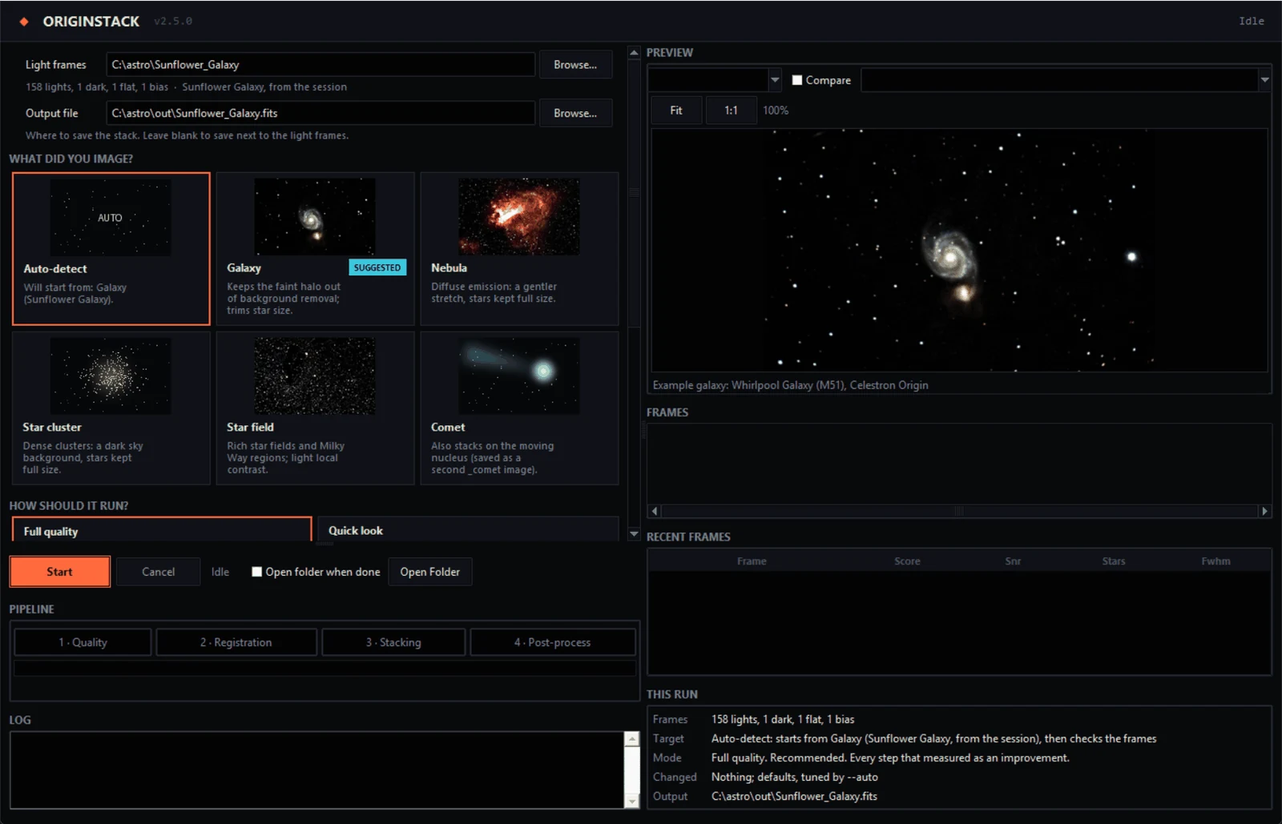
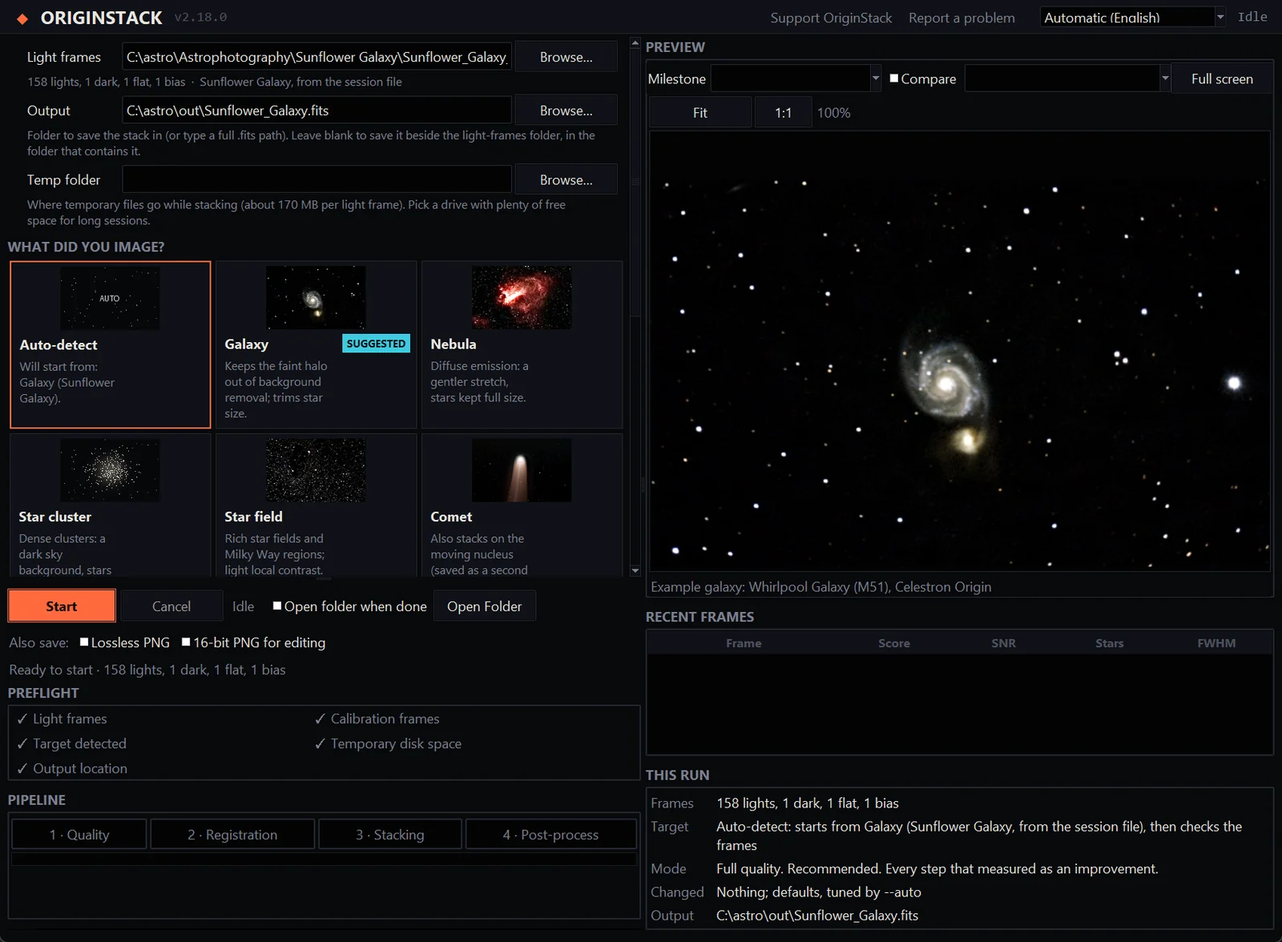
Website: retake the app screenshots without the frame strip
The setup, running and done screenshots (and the v2.11 setup shot on the
desktop-app page) still showed the removed FRAMES thumbnail strip. Retaken
from a real 158-light Sunflower run of the current app (2m 25s): the
recent-frames table now stands alone, and the finished run shows the
stretch and post-processing step controls. Alt texts, captions, image
sizes and the translated alt texts updated to match; the old "screenshot
from version 2.5" captions are gone.

diff --git a/docs/ja/index.html b/docs/ja/index.html
@@ -210,15 +210,15 @@
 
     <div class="shots">
       <figure class="shot big">
-        <picture><source type="image/webp" srcset="../img/app-running-800.webp 800w, ../img/app-running-1200.webp 1200w, ../img/app-running-1600.webp 1600w" sizes="(min-width: 1424px) 1176px, calc(100vw - 2 * clamp(20px, 5vw, 72px))"><img src="../img/app-running.png" width="1600" height="1029" loading="lazy" alt="実行中の OriginStack のウィンドウ：左側にフォルダと出力、対象の種類と実行モードの画像カード、4つのパイプラインフェーズのうち3つが完了済みの表示、その下にログ。右側には後処理途中のひまわり銀河のプレビュー、フレームのサムネイル列、フレームごとのスコアの表。"></picture>
+        <picture><source type="image/webp" srcset="../img/app-running-800.webp 800w, ../img/app-running-1200.webp 1200w, ../img/app-running-1600.webp 1600w" sizes="(min-width: 1424px) 1176px, calc(100vw - 2 * clamp(20px, 5vw, 72px))"><img src="../img/app-running.png" width="1600" height="1176" loading="lazy" alt="実行中の OriginStack ウィンドウ。左側にフォルダーと出力、対象の種類と実行モードを選ぶ画像カード、完了としてマークされた 4 つ中 3 つのパイプライン段階、その下にログ。右側には後処理の途中にあるヒマワリ銀河のプレビューと、フレームごとのスコアの表。"></picture>
         <figcaption>ひまわり銀河の処理途中。フェーズ 1〜3 が完了し、プレビューは仕上げの各ステップの進行に合わせて更新されます。</figcaption>
       </figure>
       <figure class="shot s7">
-        <picture><source type="image/webp" srcset="../img/app-setup-800.webp 800w, ../img/app-setup-1200.webp 1200w, ../img/app-setup-1600.webp 1600w" sizes="(max-width: 800px) calc(100vw - 40px), 57vw"><img src="../img/app-setup.png" width="1600" height="1029" loading="lazy" alt="実行前の OriginStack のウィンドウ：選択したフォルダとそのフレーム数、その下にセッションファイルから読み取った対象名。自動検出、銀河（おすすめ表示付き）、星雲、星団、星野、彗星の画像カード、最高品質とクイックルックの選択、プレビューに表示された銀河の作例、そしてフレーム、対象、モード、変更した設定、出力ファイルをまとめた「今回の実行」の概要。"></picture>
+        <picture><source type="image/webp" srcset="../img/app-setup-800.webp 800w, ../img/app-setup-1200.webp 1200w, ../img/app-setup-1600.webp 1600w" sizes="(max-width: 800px) calc(100vw - 40px), 57vw"><img src="../img/app-setup.png" width="1600" height="1176" loading="lazy" alt="実行前の OriginStack のウィンドウ：選択したフォルダとそのフレーム数、その下にセッションファイルから読み取った対象名。自動検出、銀河（おすすめ表示付き）、星雲、星団、星野、彗星の画像カード、最高品質とクイックルックの選択、プレビューに表示された銀河の作例、そしてフレーム、対象、モード、変更した設定、出力ファイルをまとめた「今回の実行」の概要。"></picture>
         <figcaption>実行前。フォルダを選ぶと、アプリがフレーム数を数え、セッションから対象を読み取ってカードを提案します。プレビューには作例が表示され、「今回の実行」に「開始」で何が行われるかが正確に示されます。</figcaption>
       </figure>
       <figure class="shot s5">
-        <picture><source type="image/webp" srcset="../img/app-done-800.webp 800w" sizes="(max-width: 800px) calc(100vw - 40px), 40vw"><img src="../img/app-done.png" width="800" height="983" loading="lazy" alt="実行完了後のプレビューとフレームのパネル。ひまわり銀河の最終画像と、158 フレーム中 158 フレームを 3 分 35 秒でスタックしたという概要が表示されています。"></picture>
+        <picture><source type="image/webp" srcset="../img/app-done-800.webp 800w" sizes="(max-width: 800px) calc(100vw - 40px), 40vw"><img src="../img/app-done.png" width="800" height="1374" loading="lazy" alt="実行完了後のプレビューとフレームのパネル。ヒマワリ銀河の最終画像と、158 フレーム中 158 フレームを 2 分 25 秒でスタックしたという要約が表示されています。"></picture>
         <figcaption>完了したら、結果を拡大・移動したり、リニアスタックと完成画像を切り替えて比較したりできます。</figcaption>
       </figure>
       <figure class="shot s7">

diff --git a/docs/fr/index.html b/docs/fr/index.html
@@ -212,15 +212,15 @@
 
     <div class="shots">
       <figure class="shot big">
-        <picture><source type="image/webp" srcset="../img/app-running-800.webp 800w, ../img/app-running-1200.webp 1200w, ../img/app-running-1600.webp 1600w" sizes="(min-width: 1424px) 1176px, calc(100vw - 2 * clamp(20px, 5vw, 72px))"><img src="../img/app-running.png" width="1600" height="1029" loading="lazy" alt="La fenêtre d&#x27;OriginStack pendant un traitement : le dossier et la sortie à gauche avec des cartes illustrées pour le type de cible et le mode d&#x27;exécution, trois des quatre phases de la chaîne marquées comme terminées et le journal en dessous ; à droite, un aperçu de la galaxie du Tournesol en cours de post-traitement, une bande de vignettes des images et un tableau des scores par image."></picture>
+        <picture><source type="image/webp" srcset="../img/app-running-800.webp 800w, ../img/app-running-1200.webp 1200w, ../img/app-running-1600.webp 1600w" sizes="(min-width: 1424px) 1176px, calc(100vw - 2 * clamp(20px, 5vw, 72px))"><img src="../img/app-running.png" width="1600" height="1176" loading="lazy" alt="La fenêtre d&#x27;OriginStack pendant un traitement : à gauche le dossier et la sortie avec les cartes d&#x27;image pour le type de cible et le mode d&#x27;exécution, trois des quatre phases du pipeline marquées comme terminées et le journal en dessous ; à droite un aperçu de la galaxie du Tournesol en cours de post-traitement et un tableau des scores par image."></picture>
         <figcaption>En plein traitement des images du Tournesol. Les phases 1 à 3 sont terminées, et l'aperçu suit chaque étape de finition au fur et à mesure.</figcaption>
       </figure>
       <figure class="shot s7">
-        <picture><source type="image/webp" srcset="../img/app-setup-800.webp 800w, ../img/app-setup-1200.webp 1200w, ../img/app-setup-1600.webp 1600w" sizes="(max-width: 800px) calc(100vw - 40px), 57vw"><img src="../img/app-setup.png" width="1600" height="1029" loading="lazy" alt="La fenêtre d&#x27;OriginStack avant un traitement : un dossier choisi avec ses nombres d&#x27;images et le nom de la cible tiré du fichier de session en dessous, des cartes illustrées pour Détection auto, Galaxie (marquée Suggéré), Nébuleuse, Amas d&#x27;étoiles, Champ stellaire et Comète, un choix entre Qualité maximale et Aperçu rapide, un exemple d&#x27;image de galaxie dans l&#x27;aperçu, et un résumé Cette exécution des images, de la cible, du mode, des réglages modifiés et du fichier de sortie."></picture>
+        <picture><source type="image/webp" srcset="../img/app-setup-800.webp 800w, ../img/app-setup-1200.webp 1200w, ../img/app-setup-1600.webp 1600w" sizes="(max-width: 800px) calc(100vw - 40px), 57vw"><img src="../img/app-setup.png" width="1600" height="1176" loading="lazy" alt="La fenêtre d&#x27;OriginStack avant un traitement : un dossier choisi avec ses nombres d&#x27;images et le nom de la cible tiré du fichier de session en dessous, des cartes illustrées pour Détection auto, Galaxie (marquée Suggéré), Nébuleuse, Amas d&#x27;étoiles, Champ stellaire et Comète, un choix entre Qualité maximale et Aperçu rapide, un exemple d&#x27;image de galaxie dans l&#x27;aperçu, et un résumé Cette exécution des images, de la cible, du mode, des réglages modifiés et du fichier de sortie."></picture>
         <figcaption>Avant un traitement. Choisissez un dossier : l'application compte vos images, lit la cible dans la session et suggère une carte ; l'aperçu montre un exemple de résultat et Cette exécution indique exactement ce que fera Démarrer.</figcaption>
       </figure>
       <figure class="shot s5">
-        <picture><source type="image/webp" srcset="../img/app-done-800.webp 800w" sizes="(max-width: 800px) calc(100vw - 40px), 40vw"><img src="../img/app-done.png" width="800" height="983" loading="lazy" alt="Les panneaux d&#x27;aperçu et d&#x27;images une fois le traitement terminé, montrant l&#x27;image finale de la galaxie du Tournesol et un résumé : 158 images sur 158 empilées en 3 minutes 35 secondes."></picture>
+        <picture><source type="image/webp" srcset="../img/app-done-800.webp 800w" sizes="(max-width: 800px) calc(100vw - 40px), 40vw"><img src="../img/app-done.png" width="800" height="1374" loading="lazy" alt="Les panneaux d&#x27;aperçu et d&#x27;images à la fin du traitement, avec l&#x27;image finale de la galaxie du Tournesol et un résumé : 158 images sur 158 empilées en 2 minutes 25 secondes."></picture>
         <figcaption>À la fin, vous pouvez zoomer et vous déplacer dans le résultat, ou balayer entre l'empilement linéaire et l'image finale.</figcaption>
       </figure>
       <figure class="shot s7">

diff --git a/docs/it/index.html b/docs/it/index.html
@@ -212,15 +212,15 @@
 
     <div class="shots">
       <figure class="shot big">
-        <picture><source type="image/webp" srcset="../img/app-running-800.webp 800w, ../img/app-running-1200.webp 1200w, ../img/app-running-1600.webp 1600w" sizes="(min-width: 1424px) 1176px, calc(100vw - 2 * clamp(20px, 5vw, 72px))"><img src="../img/app-running.png" width="1600" height="1029" loading="lazy" alt="La finestra di OriginStack durante un&#x27;esecuzione: a sinistra la cartella e l&#x27;output con le schede illustrate per il tipo di soggetto e la modalità di esecuzione, tre delle quattro fasi della pipeline segnate come completate e il log sotto; a destra un&#x27;anteprima della Galassia Girasole a metà della post-elaborazione, una striscia di miniature dei frame e una tabella con i punteggi per frame."></picture>
+        <picture><source type="image/webp" srcset="../img/app-running-800.webp 800w, ../img/app-running-1200.webp 1200w, ../img/app-running-1600.webp 1600w" sizes="(min-width: 1424px) 1176px, calc(100vw - 2 * clamp(20px, 5vw, 72px))"><img src="../img/app-running.png" width="1600" height="1176" loading="lazy" alt="La finestra di OriginStack durante un&#x27;elaborazione: a sinistra cartella e output con le schede immagine per il tipo di soggetto e la modalità di esecuzione, tre fasi su quattro della pipeline segnate come completate e sotto il registro; a destra un&#x27;anteprima della Galassia Girasole a metà della post-elaborazione e una tabella dei punteggi per ogni frame."></picture>
         <figcaption>A metà dell'elaborazione della Girasole. Le fasi da 1 a 3 sono completate, e l'anteprima segue ogni passaggio di finitura man mano che avviene.</figcaption>
       </figure>
       <figure class="shot s7">
-        <picture><source type="image/webp" srcset="../img/app-setup-800.webp 800w, ../img/app-setup-1200.webp 1200w, ../img/app-setup-1600.webp 1600w" sizes="(max-width: 800px) calc(100vw - 40px), 57vw"><img src="../img/app-setup.png" width="1600" height="1029" loading="lazy" alt="La finestra di OriginStack prima di un&#x27;esecuzione: una cartella scelta con il numero di frame e sotto il nome del soggetto letto dal file di sessione, le schede illustrate Rilevamento automatico, Galassia (segnata come Suggerito), Nebulosa, Ammasso stellare, Campo stellare e Cometa, la scelta tra Qualità piena e Anteprima rapida, un&#x27;immagine di galassia d&#x27;esempio nell&#x27;anteprima, e un riepilogo Questa esecuzione con frame, soggetto, modalità, impostazioni modificate e file di output."></picture>
+        <picture><source type="image/webp" srcset="../img/app-setup-800.webp 800w, ../img/app-setup-1200.webp 1200w, ../img/app-setup-1600.webp 1600w" sizes="(max-width: 800px) calc(100vw - 40px), 57vw"><img src="../img/app-setup.png" width="1600" height="1176" loading="lazy" alt="La finestra di OriginStack prima di un&#x27;esecuzione: una cartella scelta con il numero di frame e sotto il nome del soggetto letto dal file di sessione, le schede illustrate Rilevamento automatico, Galassia (segnata come Suggerito), Nebulosa, Ammasso stellare, Campo stellare e Cometa, la scelta tra Qualità piena e Anteprima rapida, un&#x27;immagine di galassia d&#x27;esempio nell&#x27;anteprima, e un riepilogo Questa esecuzione con frame, soggetto, modalità, impostazioni modificate e file di output."></picture>
         <figcaption>Prima di un'esecuzione. Scegli una cartella e l'app conta i tuoi frame, legge il soggetto dalla sessione e suggerisce una scheda; l'anteprima mostra un risultato d'esempio e Questa esecuzione indica esattamente cosa farà Avvia.</figcaption>
       </figure>
       <figure class="shot s5">
-        <picture><source type="image/webp" srcset="../img/app-done-800.webp 800w" sizes="(max-width: 800px) calc(100vw - 40px), 40vw"><img src="../img/app-done.png" width="800" height="983" loading="lazy" alt="I pannelli di anteprima e dei frame al termine dell&#x27;esecuzione, con l&#x27;immagine finale della Galassia Girasole e un riepilogo: 158 frame su 158 integrati in 3 minuti e 35 secondi."></picture>
+        <picture><source type="image/webp" srcset="../img/app-done-800.webp 800w" sizes="(max-width: 800px) calc(100vw - 40px), 40vw"><img src="../img/app-done.png" width="800" height="1374" loading="lazy" alt="I pannelli di anteprima e dei frame al termine dell&#x27;elaborazione, con l&#x27;immagine finale della Galassia Girasole e un riepilogo: 158 frame su 158 impilati in 2 minuti 25 secondi."></picture>
         <figcaption>Al termine puoi ingrandire e spostarti nel risultato, oppure scorrere tra lo stack lineare e l'immagine finita.</figcaption>
       </figure>
       <figure class="shot s7">

diff --git a/docs/es/index.html b/docs/es/index.html
@@ -212,15 +212,15 @@
 
     <div class="shots">
       <figure class="shot big">
-        <picture><source type="image/webp" srcset="../img/app-running-800.webp 800w, ../img/app-running-1200.webp 1200w, ../img/app-running-1600.webp 1600w" sizes="(min-width: 1424px) 1176px, calc(100vw - 2 * clamp(20px, 5vw, 72px))"><img src="../img/app-running.png" width="1600" height="1029" loading="lazy" alt="La ventana de OriginStack durante una ejecución: a la izquierda la carpeta y la salida, con tarjetas ilustradas para el tipo de objeto y el modo de ejecución, tres de las cuatro fases del proceso marcadas como hechas y el registro debajo; a la derecha una vista previa de la galaxia del Girasol a mitad del posprocesado, una tira de miniaturas de las tomas y una tabla de puntuaciones por toma."></picture>
+        <picture><source type="image/webp" srcset="../img/app-running-800.webp 800w, ../img/app-running-1200.webp 1200w, ../img/app-running-1600.webp 1600w" sizes="(min-width: 1424px) 1176px, calc(100vw - 2 * clamp(20px, 5vw, 72px))"><img src="../img/app-running.png" width="1600" height="1176" loading="lazy" alt="La ventana de OriginStack durante una ejecución: a la izquierda la carpeta y la salida con tarjetas de imagen para el tipo de objetivo y el modo de ejecución, tres de las cuatro fases de la canalización marcadas como terminadas y el registro debajo; a la derecha una vista previa de la Galaxia del Girasol a mitad del posprocesado y una tabla con las puntuaciones de cada toma."></picture>
         <figcaption>A mitad de la ejecución del Girasol. Las fases 1 a 3 están hechas, y la vista previa sigue cada paso de acabado a medida que ocurre.</figcaption>
       </figure>
       <figure class="shot s7">
-        <picture><source type="image/webp" srcset="../img/app-setup-800.webp 800w, ../img/app-setup-1200.webp 1200w, ../img/app-setup-1600.webp 1600w" sizes="(max-width: 800px) calc(100vw - 40px), 57vw"><img src="../img/app-setup.png" width="1600" height="1029" loading="lazy" alt="La ventana de OriginStack antes de una ejecución: una carpeta elegida con sus recuentos de tomas y debajo el nombre del objeto sacado del archivo de sesión, tarjetas ilustradas para Detección automática, Galaxia (marcada como Sugerido), Nebulosa, Cúmulo estelar, Campo estelar y Cometa, una elección entre Calidad máxima y Vista rápida, una imagen de galaxia de ejemplo en la vista previa y un resumen Esta ejecución con las tomas, el objeto, el modo, los ajustes modificados y el archivo de salida."></picture>
+        <picture><source type="image/webp" srcset="../img/app-setup-800.webp 800w, ../img/app-setup-1200.webp 1200w, ../img/app-setup-1600.webp 1600w" sizes="(max-width: 800px) calc(100vw - 40px), 57vw"><img src="../img/app-setup.png" width="1600" height="1176" loading="lazy" alt="La ventana de OriginStack antes de una ejecución: una carpeta elegida con sus recuentos de tomas y debajo el nombre del objeto sacado del archivo de sesión, tarjetas ilustradas para Detección automática, Galaxia (marcada como Sugerido), Nebulosa, Cúmulo estelar, Campo estelar y Cometa, una elección entre Calidad máxima y Vista rápida, una imagen de galaxia de ejemplo en la vista previa y un resumen Esta ejecución con las tomas, el objeto, el modo, los ajustes modificados y el archivo de salida."></picture>
         <figcaption>Antes de una ejecución. Elige una carpeta y la aplicación cuenta tus tomas, lee el objeto de la sesión y sugiere una tarjeta; la vista previa muestra un resultado de ejemplo y Esta ejecución dice exactamente qué hará Iniciar.</figcaption>
       </figure>
       <figure class="shot s5">
-        <picture><source type="image/webp" srcset="../img/app-done-800.webp 800w" sizes="(max-width: 800px) calc(100vw - 40px), 40vw"><img src="../img/app-done.png" width="800" height="983" loading="lazy" alt="Los paneles de vista previa y de tomas tras terminar la ejecución, con la imagen final de la galaxia del Girasol y un resumen: 158 de 158 tomas apiladas en 3 minutos y 35 segundos."></picture>
+        <picture><source type="image/webp" srcset="../img/app-done-800.webp 800w" sizes="(max-width: 800px) calc(100vw - 40px), 40vw"><img src="../img/app-done.png" width="800" height="1374" loading="lazy" alt="Los paneles de vista previa y de tomas al terminar la ejecución, con la imagen final de la Galaxia del Girasol y un resumen: 158 de 158 tomas apiladas en 2 minutos 25 segundos."></picture>
         <figcaption>Al terminar puedes hacer zoom y desplazarte por el resultado, o deslizar entre el apilado lineal y la imagen terminada.</figcaption>
       </figure>
       <figure class="shot s7">

diff --git a/docs/desktop-app.html b/docs/desktop-app.html
@@ -70,7 +70,7 @@
   <div class="wrap">
     <h2>Set up a run</h2>
     <figure class="shot-wide">
-      <picture><source type="image/webp" srcset="img/app-setup-v211-800.webp 800w, img/app-setup-v211-1200.webp 1200w" sizes="(min-width: 1424px) 1176px, calc(100vw - 2 * clamp(20px, 5vw, 72px))"><img src="img/app-setup-v211.png" width="1750" height="1125" loading="lazy" alt="The OriginStack window before a run: Light frames, Output and Temp folder fields at the top left, six picture cards for the target type, Start and Cancel buttons, and on the right an empty preview, frame strip and a This run summary listing 158 lights, 1 dark, 1 flat and 1 bias."></picture>
+      <picture><source type="image/webp" srcset="img/app-setup-v211-800.webp 800w, img/app-setup-v211-1200.webp 1200w" sizes="(min-width: 1424px) 1176px, calc(100vw - 2 * clamp(20px, 5vw, 72px))"><img src="img/app-setup-v211.png" width="1700" height="1250" loading="lazy" alt="The OriginStack window before a run: Light frames, Output and Temp folder fields at the top left, six picture cards for the target type, Start and Cancel buttons, and on the right an example image in the preview, an empty recent-frames table and a This run summary listing 158 lights, 1 dark, 1 flat and 1 bias."></picture>
       <figcaption>A Sunflower Galaxy session chosen and nothing else changed. The app has counted the frames, read the target from the session file, and marked Galaxy as suggested; <em>This run</em> says what Start will do.</figcaption>
     </figure>
     <dl class="feat">
@@ -118,8 +118,8 @@
   <div class="wrap">
     <h2>While it runs</h2>
     <figure class="shot-wide">
-      <picture><source type="image/webp" srcset="img/app-running-800.webp 800w, img/app-running-1200.webp 1200w, img/app-running-1600.webp 1600w" sizes="(min-width: 1424px) 1176px, calc(100vw - 2 * clamp(20px, 5vw, 72px))"><img src="img/app-running.png" width="1600" height="1029" loading="lazy" alt="The app during a run: the first three pipeline steps done and Post-process active, the log showing background extraction and denoising, the preview showing the galaxy, a strip of frame thumbnails and a table of recent frames with their score, SNR, star count and FWHM."></picture>
-      <figcaption>Part-way through the finishing steps. Screenshot from version 2.5; the layout is the same in 2.11.</figcaption>
+      <picture><source type="image/webp" srcset="img/app-running-800.webp 800w, img/app-running-1200.webp 1200w, img/app-running-1600.webp 1600w" sizes="(min-width: 1424px) 1176px, calc(100vw - 2 * clamp(20px, 5vw, 72px))"><img src="img/app-running.png" width="1600" height="1176" loading="lazy" alt="The app during a run: the first three pipeline steps done and Post-process active, the log showing background extraction and denoising, the preview showing the galaxy and a table of recent frames with their score, SNR, star count and FWHM."></picture>
+      <figcaption>Part-way through the finishing steps. Click any row of the recent-frames table to see that frame in the preview.</figcaption>
     </figure>
     <dl class="feat">
       <div><dt>Pipeline and log</dt>
@@ -140,8 +140,8 @@
   <div class="wrap">
     <h2>When it is done</h2>
     <figure class="shot-wide narrow">
-      <picture><source type="image/webp" srcset="img/app-done-800.webp 800w" sizes="(min-width: 860px) 800px, calc(100vw - 2 * clamp(20px, 5vw, 72px))"><img src="img/app-done.png" width="800" height="983" loading="lazy" alt="The right-hand panels after a run: the final post-processed galaxy in the preview, the frame strip, recent frames, and a Complete panel showing 158 of 158 frames stacked, average FWHM 5.38 pixels, the output name and a total time of 3 minutes 35 seconds."></picture>
-      <figcaption>The finished run: 158 of 158 frames stacked in 3 minutes 35 seconds. Screenshot from version 2.5; 2.11 adds the re-stretch bar described below.</figcaption>
+      <picture><source type="image/webp" srcset="img/app-done-800.webp 800w" sizes="(min-width: 860px) 800px, calc(100vw - 2 * clamp(20px, 5vw, 72px))"><img src="img/app-done.png" width="800" height="1374" loading="lazy" alt="The right-hand panels after a run: the final post-processed galaxy in the preview, recent frames, and a Complete panel showing 158 of 158 frames stacked, average FWHM 2.69 pixels, the output name and a total time of 2 minutes 25 seconds."></picture>
+      <figcaption>The finished run: 158 of 158 frames stacked in 2 minutes 25 seconds. The stretch controls above the preview are described below.</figcaption>
     </figure>
     <dl class="feat">
       <div><dt>Complete</dt>

diff --git a/docs/pt-br/index.html b/docs/pt-br/index.html
@@ -212,15 +212,15 @@
 
     <div class="shots">
       <figure class="shot big">
-        <picture><source type="image/webp" srcset="../img/app-running-800.webp 800w, ../img/app-running-1200.webp 1200w, ../img/app-running-1600.webp 1600w" sizes="(min-width: 1424px) 1176px, calc(100vw - 2 * clamp(20px, 5vw, 72px))"><img src="../img/app-running.png" width="1600" height="1029" loading="lazy" alt="A janela do OriginStack durante uma execução: a pasta e a saída à esquerda, com cartões ilustrados para o tipo de alvo e o modo de execução, três das quatro fases do pipeline marcadas como concluídas e o log abaixo; à direita, uma prévia da Galáxia do Girassol no meio do pós-processamento, uma faixa de miniaturas dos frames e uma tabela com os scores de cada frame."></picture>
+        <picture><source type="image/webp" srcset="../img/app-running-800.webp 800w, ../img/app-running-1200.webp 1200w, ../img/app-running-1600.webp 1600w" sizes="(min-width: 1424px) 1176px, calc(100vw - 2 * clamp(20px, 5vw, 72px))"><img src="../img/app-running.png" width="1600" height="1176" loading="lazy" alt="A janela do OriginStack durante uma execução: à esquerda a pasta e a saída com cartões de imagem para o tipo de alvo e o modo de execução, três das quatro fases do pipeline marcadas como concluídas e o registro abaixo; à direita uma prévia da Galáxia do Girassol no meio do pós-processamento e uma tabela com as pontuações de cada frame."></picture>
         <figcaption>No meio da execução da Galáxia do Girassol. As fases 1 a 3 estão concluídas, e a prévia acompanha cada etapa de finalização à medida que acontece.</figcaption>
       </figure>
       <figure class="shot s7">
-        <picture><source type="image/webp" srcset="../img/app-setup-800.webp 800w, ../img/app-setup-1200.webp 1200w, ../img/app-setup-1600.webp 1600w" sizes="(max-width: 800px) calc(100vw - 40px), 57vw"><img src="../img/app-setup.png" width="1600" height="1029" loading="lazy" alt="A janela do OriginStack antes de uma execução: uma pasta escolhida, com a contagem de frames e o nome do alvo tirado do arquivo da sessão logo abaixo, cartões ilustrados para Detectar automaticamente, Galáxia (marcado como Sugerido), Nebulosa, Aglomerado estelar, Campo estelar e Cometa, a escolha entre Qualidade máxima e Olhada rápida, uma imagem de galáxia de exemplo na prévia e um resumo Esta execução com frames, alvo, modo, configurações alteradas e arquivo de saída."></picture>
+        <picture><source type="image/webp" srcset="../img/app-setup-800.webp 800w, ../img/app-setup-1200.webp 1200w, ../img/app-setup-1600.webp 1600w" sizes="(max-width: 800px) calc(100vw - 40px), 57vw"><img src="../img/app-setup.png" width="1600" height="1176" loading="lazy" alt="A janela do OriginStack antes de uma execução: uma pasta escolhida, com a contagem de frames e o nome do alvo tirado do arquivo da sessão logo abaixo, cartões ilustrados para Detectar automaticamente, Galáxia (marcado como Sugerido), Nebulosa, Aglomerado estelar, Campo estelar e Cometa, a escolha entre Qualidade máxima e Olhada rápida, uma imagem de galáxia de exemplo na prévia e um resumo Esta execução com frames, alvo, modo, configurações alteradas e arquivo de saída."></picture>
         <figcaption>Antes de uma execução. Escolha uma pasta e o app conta seus frames, lê o alvo a partir da sessão e sugere um cartão; a prévia mostra um resultado de exemplo e Esta execução diz exatamente o que Iniciar vai fazer.</figcaption>
       </figure>
       <figure class="shot s5">
-        <picture><source type="image/webp" srcset="../img/app-done-800.webp 800w" sizes="(max-width: 800px) calc(100vw - 40px), 40vw"><img src="../img/app-done.png" width="800" height="983" loading="lazy" alt="Os painéis de prévia e de frames após o fim da execução, mostrando a imagem final da Galáxia do Girassol e um resumo: 158 de 158 frames empilhados em 3 minutos e 35 segundos."></picture>
+        <picture><source type="image/webp" srcset="../img/app-done-800.webp 800w" sizes="(max-width: 800px) calc(100vw - 40px), 40vw"><img src="../img/app-done.png" width="800" height="1374" loading="lazy" alt="Os painéis de prévia e de frames depois que a execução terminou, com a imagem final da Galáxia do Girassol e um resumo: 158 de 158 frames empilhados em 2 minutos 25 segundos."></picture>
         <figcaption>Quando termina, você pode dar zoom e mover o resultado, ou deslizar entre o empilhamento linear e a imagem final.</figcaption>
       </figure>
       <figure class="shot s7">

diff --git a/docs/nl/index.html b/docs/nl/index.html
@@ -212,15 +212,15 @@
 
     <div class="shots">
       <figure class="shot big">
-        <picture><source type="image/webp" srcset="../img/app-running-800.webp 800w, ../img/app-running-1200.webp 1200w, ../img/app-running-1600.webp 1600w" sizes="(min-width: 1424px) 1176px, calc(100vw - 2 * clamp(20px, 5vw, 72px))"><img src="../img/app-running.png" width="1600" height="1029" loading="lazy" alt="Het venster van OriginStack tijdens een run: links de map en de uitvoer met afbeeldingskaarten voor het type object en de manier van verwerken, drie van de vier fasen van de pijplijn als klaar gemarkeerd en daaronder het logboek; rechts een voorvertoning van het Zonnebloemstelsel halverwege de nabewerking, een strook met miniaturen van frames en een tabel met scores per frame."></picture>
+        <picture><source type="image/webp" srcset="../img/app-running-800.webp 800w, ../img/app-running-1200.webp 1200w, ../img/app-running-1600.webp 1600w" sizes="(min-width: 1424px) 1176px, calc(100vw - 2 * clamp(20px, 5vw, 72px))"><img src="../img/app-running.png" width="1600" height="1176" loading="lazy" alt="Het OriginStack-venster tijdens een run: links de map en uitvoer met afbeeldingskaarten voor het type doel en de runmodus, drie van de vier pijplijnfasen als klaar gemarkeerd en daaronder het logboek; rechts een voorbeeld van het Zonnebloemstelsel halverwege de nabewerking en een tabel met de scores per frame."></picture>
         <figcaption>Halverwege de run van het Zonnebloemstelsel. Fase 1 tot en met 3 zijn klaar, en de voorvertoning volgt elke afwerkingsstap terwijl die plaatsvindt.</figcaption>
       </figure>
       <figure class="shot s7">
-        <picture><source type="image/webp" srcset="../img/app-setup-800.webp 800w, ../img/app-setup-1200.webp 1200w, ../img/app-setup-1600.webp 1600w" sizes="(max-width: 800px) calc(100vw - 40px), 57vw"><img src="../img/app-setup.png" width="1600" height="1029" loading="lazy" alt="Het venster van OriginStack vóór een run: een gekozen map met het aantal frames en de objectnaam uit het sessiebestand eronder, afbeeldingskaarten voor Automatisch herkennen, Sterrenstelsel (gemarkeerd als Voorgesteld), Nevel, Sterrenhoop, Sterrenveld en Komeet, een keuze tussen Volledige kwaliteit en Snel bekijken, een voorbeeldbeeld van een sterrenstelsel in de voorvertoning, en een samenvatting Deze run met frames, object, modus, gewijzigde instellingen en uitvoerbestand."></picture>
+        <picture><source type="image/webp" srcset="../img/app-setup-800.webp 800w, ../img/app-setup-1200.webp 1200w, ../img/app-setup-1600.webp 1600w" sizes="(max-width: 800px) calc(100vw - 40px), 57vw"><img src="../img/app-setup.png" width="1600" height="1176" loading="lazy" alt="Het venster van OriginStack vóór een run: een gekozen map met het aantal frames en de objectnaam uit het sessiebestand eronder, afbeeldingskaarten voor Automatisch herkennen, Sterrenstelsel (gemarkeerd als Voorgesteld), Nevel, Sterrenhoop, Sterrenveld en Komeet, een keuze tussen Volledige kwaliteit en Snel bekijken, een voorbeeldbeeld van een sterrenstelsel in de voorvertoning, en een samenvatting Deze run met frames, object, modus, gewijzigde instellingen en uitvoerbestand."></picture>
         <figcaption>Vóór een run. Kies een map en de app telt je frames, leest het object uit de sessie en stelt een kaart voor; de voorvertoning toont een voorbeeldresultaat en Deze run zegt precies wat Starten gaat doen.</figcaption>
       </figure>
       <figure class="shot s5">
-        <picture><source type="image/webp" srcset="../img/app-done-800.webp 800w" sizes="(max-width: 800px) calc(100vw - 40px), 40vw"><img src="../img/app-done.png" width="800" height="983" loading="lazy" alt="De panelen voor voorvertoning en frames nadat de run klaar is, met het eindbeeld van het Zonnebloemstelsel en een samenvatting: 158 van 158 frames gestapeld in 3 minuten 35 seconden."></picture>
+        <picture><source type="image/webp" srcset="../img/app-done-800.webp 800w" sizes="(max-width: 800px) calc(100vw - 40px), 40vw"><img src="../img/app-done.png" width="800" height="1374" loading="lazy" alt="De voorbeeld- en framepanelen na afloop van de run, met het uiteindelijke beeld van het Zonnebloemstelsel en een samenvatting: 158 van 158 frames gestackt in 2 minuten 25 seconden."></picture>
         <figcaption>Als het klaar is, kun je in het resultaat in- en uitzoomen en verschuiven, of met een schuif wisselen tussen de lineaire stack en het afgewerkte beeld.</figcaption>
       </figure>
       <figure class="shot s7">

diff --git a/docs/de/index.html b/docs/de/index.html
@@ -212,15 +212,15 @@
 
     <div class="shots">
       <figure class="shot big">
-        <picture><source type="image/webp" srcset="../img/app-running-800.webp 800w, ../img/app-running-1200.webp 1200w, ../img/app-running-1600.webp 1600w" sizes="(min-width: 1424px) 1176px, calc(100vw - 2 * clamp(20px, 5vw, 72px))"><img src="../img/app-running.png" width="1600" height="1029" loading="lazy" alt="Das OriginStack-Fenster während eines Laufs: links Ordner und Ausgabe mit Bildkarten für Objekttyp und Laufmodus, drei von vier Pipeline-Phasen als erledigt markiert und darunter das Log; rechts eine Vorschau der Sonnenblumengalaxie mitten in der Nachbearbeitung, eine Leiste mit Frame-Miniaturen und eine Tabelle mit den Bewertungen pro Frame."></picture>
+        <picture><source type="image/webp" srcset="../img/app-running-800.webp 800w, ../img/app-running-1200.webp 1200w, ../img/app-running-1600.webp 1600w" sizes="(min-width: 1424px) 1176px, calc(100vw - 2 * clamp(20px, 5vw, 72px))"><img src="../img/app-running.png" width="1600" height="1176" loading="lazy" alt="Das OriginStack-Fenster während eines Laufs: links Ordner und Ausgabe mit Bildkarten für Objekttyp und Laufmodus, drei von vier Pipeline-Phasen als erledigt markiert und darunter das Log; rechts eine Vorschau der Sonnenblumengalaxie mitten in der Nachbearbeitung und eine Tabelle mit den Bewertungen pro Frame."></picture>
         <figcaption>Mitten im Sonnenblumen-Lauf. Die Phasen 1 bis 3 sind erledigt, und die Vorschau zeigt jeden Fertigstellungsschritt, während er läuft.</figcaption>
       </figure>
       <figure class="shot s7">
-        <picture><source type="image/webp" srcset="../img/app-setup-800.webp 800w, ../img/app-setup-1200.webp 1200w, ../img/app-setup-1600.webp 1600w" sizes="(max-width: 800px) calc(100vw - 40px), 57vw"><img src="../img/app-setup.png" width="1600" height="1029" loading="lazy" alt="Das OriginStack-Fenster vor einem Lauf: ein gewählter Ordner mit seinen Frame-Anzahlen und darunter der Objektname aus der Session-Datei, Bildkarten für Automatisch erkennen, Galaxie (als Empfohlen markiert), Nebel, Sternhaufen, Sternfeld und Komet, eine Wahl zwischen Volle Qualität und Schnellansicht, ein Beispiel-Galaxienbild in der Vorschau und eine Zusammenfassung Dieser Lauf mit Frames, Objekt, Modus, geänderten Einstellungen und Ausgabedatei."></picture>
+        <picture><source type="image/webp" srcset="../img/app-setup-800.webp 800w, ../img/app-setup-1200.webp 1200w, ../img/app-setup-1600.webp 1600w" sizes="(max-width: 800px) calc(100vw - 40px), 57vw"><img src="../img/app-setup.png" width="1600" height="1176" loading="lazy" alt="Das OriginStack-Fenster vor einem Lauf: ein gewählter Ordner mit seinen Frame-Anzahlen und darunter der Objektname aus der Session-Datei, Bildkarten für Automatisch erkennen, Galaxie (als Empfohlen markiert), Nebel, Sternhaufen, Sternfeld und Komet, eine Wahl zwischen Volle Qualität und Schnellansicht, ein Beispiel-Galaxienbild in der Vorschau und eine Zusammenfassung Dieser Lauf mit Frames, Objekt, Modus, geänderten Einstellungen und Ausgabedatei."></picture>
         <figcaption>Vor einem Lauf. Wählen Sie einen Ordner, und die App zählt Ihre Frames, liest das Objekt aus der Session und schlägt eine Karte vor; die Vorschau zeigt ein Beispielergebnis, und Dieser Lauf sagt genau, was Start tun wird.</figcaption>
       </figure>
       <figure class="shot s5">
-        <picture><source type="image/webp" srcset="../img/app-done-800.webp 800w" sizes="(max-width: 800px) calc(100vw - 40px), 40vw"><img src="../img/app-done.png" width="800" height="983" loading="lazy" alt="Vorschau- und Frame-Bereich nach Abschluss des Laufs mit dem fertigen Bild der Sonnenblumengalaxie und einer Zusammenfassung: 158 von 158 Frames in 3 Minuten 35 Sekunden gestackt."></picture>
+        <picture><source type="image/webp" srcset="../img/app-done-800.webp 800w" sizes="(max-width: 800px) calc(100vw - 40px), 40vw"><img src="../img/app-done.png" width="800" height="1374" loading="lazy" alt="Vorschau- und Frame-Bereich nach Abschluss des Laufs mit dem fertigen Bild der Sonnenblumengalaxie und einer Zusammenfassung: 158 von 158 Frames in 2 Minuten 25 Sekunden gestackt."></picture>
         <figcaption>Wenn es fertig ist, können Sie das Ergebnis zoomen und verschieben oder zwischen dem linearen Stack und dem fertigen Bild hin- und herwischen.</figcaption>
       </figure>
       <figure class="shot s7">

diff --git a/docs/index.html b/docs/index.html
@@ -217,15 +217,15 @@
 
     <div class="shots">
       <figure class="shot big">
-        <picture><source type="image/webp" srcset="img/app-running-800.webp 800w, img/app-running-1200.webp 1200w, img/app-running-1600.webp 1600w" sizes="(min-width: 1424px) 1176px, calc(100vw - 2 * clamp(20px, 5vw, 72px))"><img src="img/app-running.png" width="1600" height="1029" loading="lazy" alt="The OriginStack window during a run: the folder and output on the left with picture cards for the target type and the run mode, three of four pipeline phases marked done and the log below; on the right a preview of the Sunflower Galaxy part-way through post-processing, a strip of frame thumbnails and a table of per-frame scores."></picture>
+        <picture><source type="image/webp" srcset="img/app-running-800.webp 800w, img/app-running-1200.webp 1200w, img/app-running-1600.webp 1600w" sizes="(min-width: 1424px) 1176px, calc(100vw - 2 * clamp(20px, 5vw, 72px))"><img src="img/app-running.png" width="1600" height="1176" loading="lazy" alt="The OriginStack window during a run: the folder and output on the left with picture cards for the target type and the run mode, three of four pipeline phases marked done and the log below; on the right a preview of the Sunflower Galaxy part-way through post-processing and a table of per-frame scores."></picture>
         <figcaption>Part-way through the Sunflower run. Phases 1 to 3 are done, and the preview follows each finishing step as it happens.</figcaption>
       </figure>
       <figure class="shot s7">
-        <picture><source type="image/webp" srcset="img/app-setup-800.webp 800w, img/app-setup-1200.webp 1200w, img/app-setup-1600.webp 1600w" sizes="(max-width: 800px) calc(100vw - 40px), 57vw"><img src="img/app-setup.png" width="1600" height="1029" loading="lazy" alt="The OriginStack window before a run: a folder chosen with its frame counts and the target name from the session file under it, picture cards for Auto-detect, Galaxy (marked Suggested), Nebula, Star cluster, Star field and Comet, a choice of Full quality or Quick look, an example galaxy image in the preview, and a This run summary of frames, target, mode, changed settings and output file."></picture>
+        <picture><source type="image/webp" srcset="img/app-setup-800.webp 800w, img/app-setup-1200.webp 1200w, img/app-setup-1600.webp 1600w" sizes="(max-width: 800px) calc(100vw - 40px), 57vw"><img src="img/app-setup.png" width="1600" height="1176" loading="lazy" alt="The OriginStack window before a run: a folder chosen with its frame counts and the target name from the session file under it, picture cards for Auto-detect, Galaxy (marked Suggested), Nebula, Star cluster, Star field and Comet, a choice of Full quality or Quick look, an example galaxy image in the preview, and a This run summary of frames, target, mode, changed settings and output file."></picture>
         <figcaption>Before a run. Pick a folder and the app counts your frames, reads the target from the session and suggests a card; the preview shows an example result and This run says exactly what Start will do.</figcaption>
       </figure>
       <figure class="shot s5">
-        <picture><source type="image/webp" srcset="img/app-done-800.webp 800w" sizes="(max-width: 800px) calc(100vw - 40px), 40vw"><img src="img/app-done.png" width="800" height="983" loading="lazy" alt="The preview and frame panels after the run finished, showing the final image of the Sunflower Galaxy and a summary: 158 of 158 frames stacked in 3 minutes 35 seconds."></picture>
+        <picture><source type="image/webp" srcset="img/app-done-800.webp 800w" sizes="(max-width: 800px) calc(100vw - 40px), 40vw"><img src="img/app-done.png" width="800" height="1374" loading="lazy" alt="The preview and frame panels after the run finished, showing the final image of the Sunflower Galaxy and a summary: 158 of 158 frames stacked in 2 minutes 25 seconds."></picture>
         <figcaption>When it finishes you can zoom and pan the result, or wipe between the linear stack and the finished image.</figcaption>
       </figure>
       <figure class="shot s7">

diff --git a/docs/zh-cn/index.html b/docs/zh-cn/index.html
@@ -210,15 +210,15 @@
 
     <div class="shots">
       <figure class="shot big">
-        <picture><source type="image/webp" srcset="../img/app-running-800.webp 800w, ../img/app-running-1200.webp 1200w, ../img/app-running-1600.webp 1600w" sizes="(min-width: 1424px) 1176px, calc(100vw - 2 * clamp(20px, 5vw, 72px))"><img src="../img/app-running.png" width="1600" height="1029" loading="lazy" alt="运行中的 OriginStack 窗口：左侧是文件夹和输出，以及目标类型和运行模式的图片卡片，四个处理阶段中的三个已标记完成，下方是日志；右侧是后期处理进行到一半的向日葵星系预览、一排帧缩略图和逐帧得分表。"></picture>
+        <picture><source type="image/webp" srcset="../img/app-running-800.webp 800w, ../img/app-running-1200.webp 1200w, ../img/app-running-1600.webp 1600w" sizes="(min-width: 1424px) 1176px, calc(100vw - 2 * clamp(20px, 5vw, 72px))"><img src="../img/app-running.png" width="1600" height="1176" loading="lazy" alt="运行期间的 OriginStack 窗口：左侧是文件夹和输出，以及目标类型和运行模式的图片卡片，四个流水线阶段中有三个已标记为完成，下方是日志；右侧是向日葵星系后处理途中的预览，以及每帧得分的表格。"></picture>
         <figcaption>向日葵星系运行到一半。第 1 至 3 阶段已完成，预览会随着每个成品处理步骤实时更新。</figcaption>
       </figure>
       <figure class="shot s7">
-        <picture><source type="image/webp" srcset="../img/app-setup-800.webp 800w, ../img/app-setup-1200.webp 1200w, ../img/app-setup-1600.webp 1600w" sizes="(max-width: 800px) calc(100vw - 40px), 57vw"><img src="../img/app-setup.png" width="1600" height="1029" loading="lazy" alt="运行前的 OriginStack 窗口：已选择一个文件夹，下方显示其帧数和来自会话文件的目标名称；图片卡片包括自动检测、星系（标记为建议）、星云、星团、星场和彗星；可选择完整质量或快速预览；预览中是一张星系示例图像；“本次运行”摘要列出了帧、目标、模式、已更改的设置和输出文件。"></picture>
+        <picture><source type="image/webp" srcset="../img/app-setup-800.webp 800w, ../img/app-setup-1200.webp 1200w, ../img/app-setup-1600.webp 1600w" sizes="(max-width: 800px) calc(100vw - 40px), 57vw"><img src="../img/app-setup.png" width="1600" height="1176" loading="lazy" alt="运行前的 OriginStack 窗口：已选择一个文件夹，下方显示其帧数和来自会话文件的目标名称；图片卡片包括自动检测、星系（标记为建议）、星云、星团、星场和彗星；可选择完整质量或快速预览；预览中是一张星系示例图像；“本次运行”摘要列出了帧、目标、模式、已更改的设置和输出文件。"></picture>
         <figcaption>运行前。选择一个文件夹，应用会统计你的帧数、从会话中读取目标并建议一张卡片；预览显示示例结果，“本次运行”准确说明按下“开始”后会做什么。</figcaption>
       </figure>
       <figure class="shot s5">
-        <picture><source type="image/webp" srcset="../img/app-done-800.webp 800w" sizes="(max-width: 800px) calc(100vw - 40px), 40vw"><img src="../img/app-done.png" width="800" height="983" loading="lazy" alt="运行完成后的预览和帧面板，显示向日葵星系的最终图像和摘要：158 帧中的 158 帧在 3 分 35 秒内完成叠加。"></picture>
+        <picture><source type="image/webp" srcset="../img/app-done-800.webp 800w" sizes="(max-width: 800px) calc(100vw - 40px), 40vw"><img src="../img/app-done.png" width="800" height="1374" loading="lazy" alt="运行结束后的预览和帧面板，显示向日葵星系的最终图像和摘要：158 帧全部叠加，用时 2 分 25 秒。"></picture>
         <figcaption>完成后，你可以缩放和平移结果，或在线性叠加与成品图像之间滑动对比。</figcaption>
       </figure>
       <figure class="shot s7">
